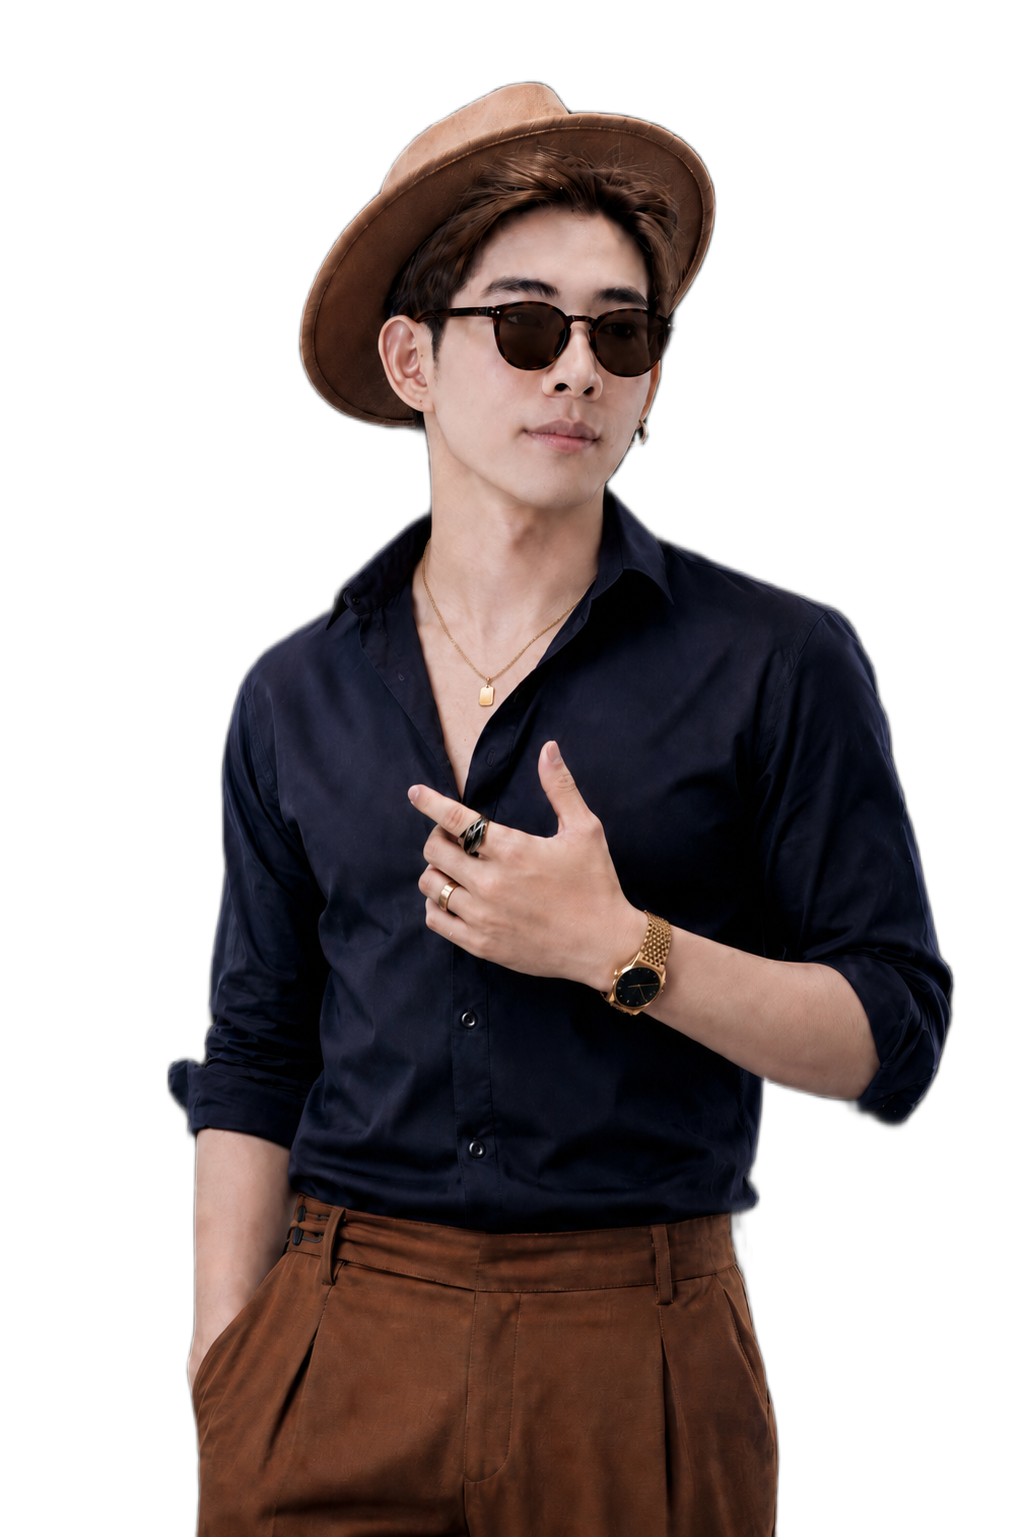
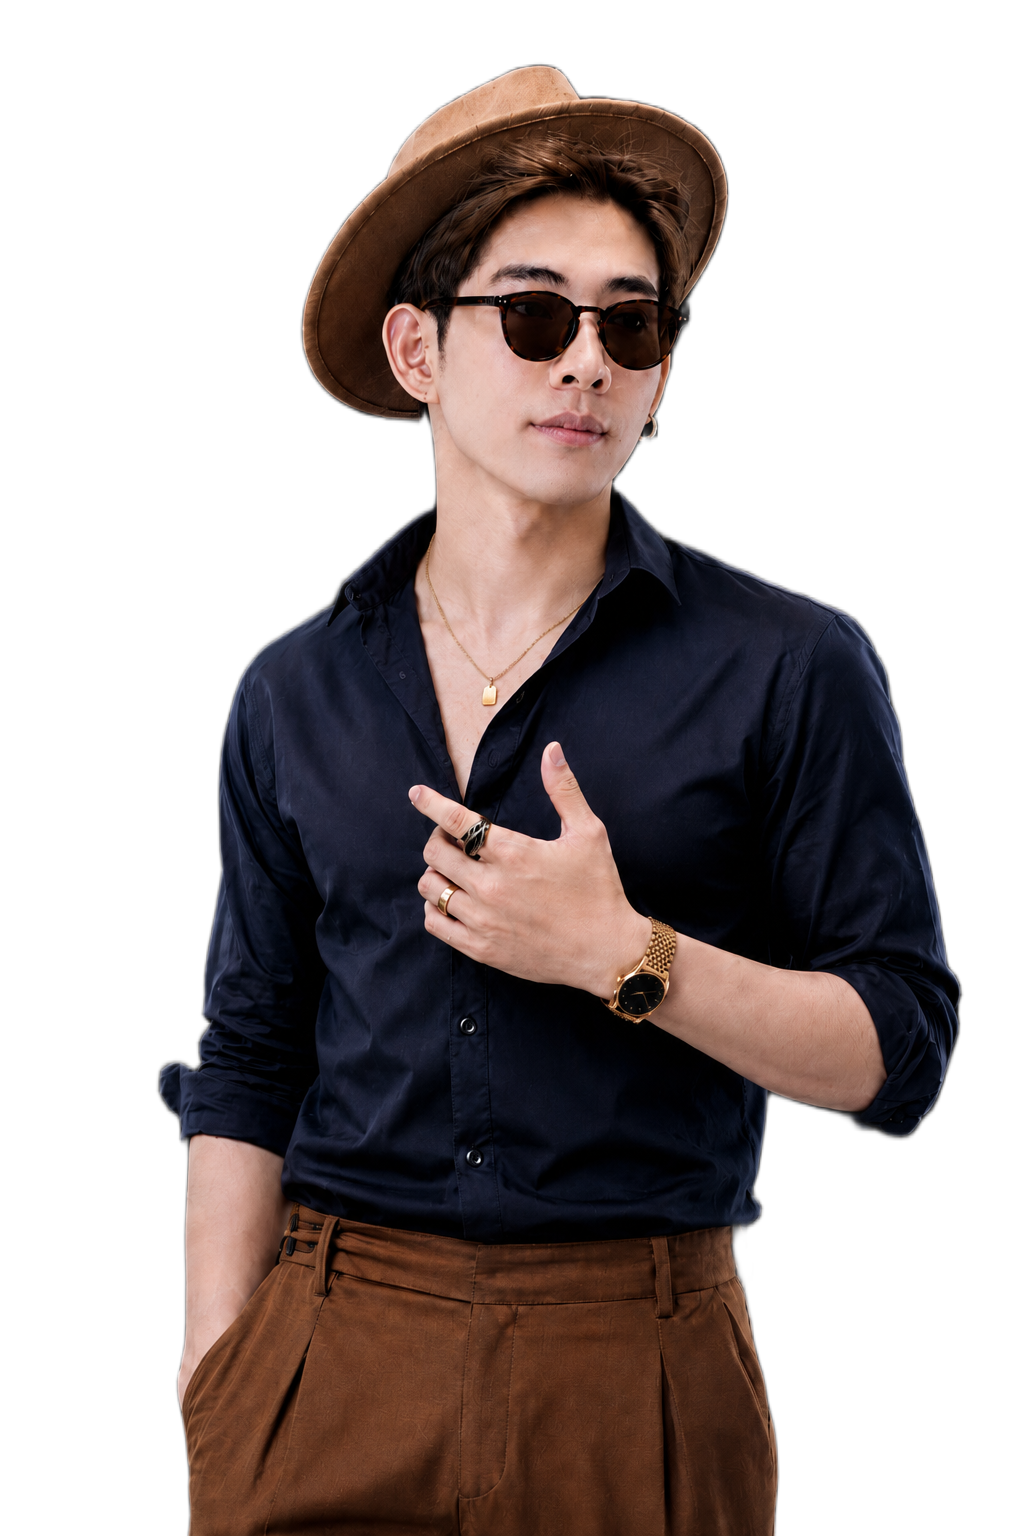
feat: add homepage FAQ with JSON-LD and budget-5000 blog post
Make Faq.astro reusable via optional title/class props (empty title
hides the heading and switches to aria-label). The homepage now feeds
a single faqItems source into both the accordion and FAQPage JSON-LD
to prevent schema drift.

Add new blog post "งบ 5,000 บาท ทำเสื้อแบรนด์ตัวเอง" with its cover
image, and refresh the hero image.

diff --git a/src/content/blog/budget-5000-baht-own-brand-tshirt.md b/src/content/blog/budget-5000-baht-own-brand-tshirt.md
@@ -1,0 +1,101 @@
+---
+title: "มีงบ 5,000 บาท ทำเสื้อแบรนด์ตัวเองได้กี่ตัว? กางต้นทุนจริง"
+description: "งบ 5,000 บาททำแบรนด์เสื้อยืดได้จริงไหม? กางต้นทุนทุกบรรทัด ตั้งแต่เสื้อเปล่า ค่าสกรีน ป้าย ยันแพ็กกิ้ง แล้วสรุปว่าได้กี่ตัวกันแน่"
+author: "ทีมงาน Thana Plus 153"
+publishedAt: 2026-06-05
+category: "ธุรกิจ"
+tags: ["ธุรกิจ", "สร้างแบรนด์", "มือใหม่", "รับผลิตเสื้อ"]
+cover: "@/assets/blogs/งบ5000ทำเสื้อแบรนด์.png"
+coverAlt: "เสื้อยืดเปล่าวางคู่ใบคำนวณต้นทุนและธนบัตร แสดงการคิดงบ 5,000 บาทสำหรับทำแบรนด์เสื้อ"
+draft: false
+---
+
+"อยากมีแบรนด์เสื้อเป็นของตัวเอง แต่มีทุนแค่ 5,000 บาท พอไหม?" คำตอบตรง ๆ คือ **พอ ถ้าเลือกถูกวิธี** — ด้วยงบ 5,000 บาทคุณจะได้เสื้อแบรนด์พร้อมขาย **ราว 16–29 ตัว (เฉลี่ยประมาณ 20 ตัว)** โดยใช้เสื้อเปล่าสำเร็จรูปมาสกรีน DTF แล้วติดป้ายแบรนด์ตัวเอง บทความนี้จะกางต้นทุนให้ดูทุกบรรทัด ตั้งแต่เสื้อเปล่า ค่าสกรีน ป้ายแบรนด์ ยันถุงแพ็ก แล้วสรุปด้วยตัวเลขจริงว่าทำไมถึงได้เท่านี้
+
+## "ทำแบรนด์" มีอยู่ 2 เส้นทาง และราคาต่างกันลิบ
+
+สิ่งที่ทำให้คนงบบานปลายคือเข้าใจผิดว่า "ทำแบรนด์" = "ตัดเย็บเสื้อขึ้นมาเองทั้งตัว" จริง ๆ แล้วมันแยกเป็น 2 ทาง:
+
+1. **เอาเสื้อเปล่าสำเร็จรูปมาสกรีน/ปัก** แล้วติดป้ายแบรนด์ตัวเอง — ทุนเริ่มต้นประมาณ **5,000 บาทก็เริ่มได้**
+2. **ออกแบบทรงเสื้อ ตัดเย็บใหม่ทั้งตัว** (cut & sew) — ทุนพุ่งไป **10,000 บาทขึ้นไป** เพราะมีค่าทำแพตเทิร์น ค่าตัวอย่าง และต้องสั่งเป็นล็อต
+
+ในเส้นทางที่ 2 ค่าออกแบบลายเริ่มที่ราว 700 บาท ค่าทำโลโก้ราว 1,500 บาท ค่าทำแพตเทิร์น 200–2,000 บาทต่อแบบต่อไซส์ และค่าตัดเสื้อตัวอย่าง 300–1,000 บาท จะเห็นว่าแค่ "เฟสออกแบบ" ก็กิน 1,000–4,000 บาทไปแล้ว ยังไม่ทันได้ผลิตจริง
+
+**สรุป: ถ้ามีงบ 5,000 บาท คุณกำลังเล่นเส้นทางที่ 1 — เสื้อเปล่า + สกรีน + ป้าย** บทความนี้จะคำนวณบนเส้นทางนี้ ถ้าอยากเห็นภาพรวมการวางระบบแบรนด์ทั้งหมดก่อน อ่าน [คู่มือเริ่มต้นสร้างแบรนด์เสื้อผ้า ฉบับสมบูรณ์](/blog/clothing-brand-startup-guide) ควบคู่ไปด้วยได้
+
+## องค์ประกอบต้นทุนต่อเสื้อ 1 ตัว (แบบหมดเปลือก)
+
+ต้นทุนเสื้อแบรนด์ 1 ตัวที่ "พร้อมขาย" ไม่ได้มีแค่ค่าเสื้อ มันประกอบด้วย 4 ก้อนหลัก:
+
+### 1) เสื้อเปล่า (ก้อนใหญ่สุด)
+
+ราคาเสื้อยืดเปล่า Cotton 100% ขึ้นกับเกรดผ้าและจำนวนที่สั่ง อิงจากเรตราคาตลาดทั่วไป:
+
+| เกรดผ้า (ไซส์ M) | สั่ง 1–24 ตัว | สั่ง 25–99 ตัว | สั่ง 100+ ตัว |
+|---|---|---|---|
+| Semi Cotton 32 | 95 ฿ | 85 ฿ | 80 ฿ |
+| Comb Cotton 32 | 100 ฿ | 100 ฿ | 95 ฿ |
+| Gildan Premium | 170 ฿ | 160 ฿ | 145 ฿ |
+
+ร้านขายส่งส่วนใหญ่ราคาใกล้เคียงกัน — เสื้อ Cotton 100% เริ่มต้นราว **85 บาท** และผ้าพรีเมียมทอละเอียดเริ่มราว 100 บาท จุดสำคัญที่ต้องรู้คือ **ยิ่งสั่งน้อย ราคาต่อตัวยิ่งแพง** และด้วยงบ 5,000 บาท คุณจะ "ไม่มีทาง" แตะเรตราคาขายส่ง 100+ ตัวได้เลย อยากเข้าใจว่าผ้าแต่ละเกรดต่างกันยังไงก่อนเลือก อ่าน [ผ้าคอตตอนมีกี่เกรด ทำไมเป็นเนื้อผ้าอันดับ 1 ของเสื้อยืด](/blog/cotton-fabric-grades-explained)
+
+### 2) ค่าสกรีน (ตัวแปรที่คนมองข้าม)
+
+นี่คือจุดชี้เป็นชี้ตายของงบน้อย เพราะเทคนิคสกรีนแต่ละแบบเหมาะกับจำนวนคนละขนาด:
+
+- **DTF / DTG (พิมพ์ทีละตัว ไม่มีขั้นต่ำ):** เหมาะกับงบน้อยที่สุด ค่าพิมพ์ DTF อยู่ที่ราว **90–180 บาทต่อตัว** (ยังไม่รวมเสื้อ) ส่วน DTG ราว 200–400 บาท
+- **ซิลค์สกรีน (Silk Screen):** ถูกมากเมื่อทำจำนวนเยอะ — เพียง **8–15 บาทต่อตัว** ที่จำนวน 30–500 ตัว แต่มี "ค่าเปิดบล็อกต่อสี" ที่ทำให้ **งานจำนวนน้อยแพงเกินคุ้ม** ถ้าทำแค่ไม่กี่สิบตัวจึงไม่เหมาะ
+
+ข้อสรุปจากร้านสกรีนตรงกันว่า ถ้าจำนวนน้อยหรือลายมีหลายสี **ให้เลี่ยงซิลค์สกรีน แล้วใช้ DTF** เพราะไม่ต้องจ่ายค่าบล็อก พิมพ์กี่สีก็ราคาเดียว ทำไม DTF ถึงเหมาะกับการเริ่มต้น อ่านเจาะลึกที่ [งานสกรีนดิจิทัล DTF คืออะไร ดีกว่าการสกรีนแบบเดิมอย่างไร](/blog/dtf-digital-printing-explained)
+
+### 3) ป้ายแบรนด์ + ป้ายคอเสื้อ
+
+ป้ายคือสิ่งที่เปลี่ยน "เสื้อสกรีน" ให้กลายเป็น "แบรนด์" แต่ป้ายทอ (Woven Label) และป้ายแท็กกระดาษ (Hangtag) มักมี **ขั้นต่ำการสั่ง 200–1,000 ใบขึ้นไป** ซึ่งหมายความว่าถ้าคุณทำเสื้อแค่ 20–30 ตัว แต่ต้องสั่งป้าย 200 ใบ ต้นทุนป้ายต่อตัวจะถูก "เกลี่ย" สูงผิดส่วน — ช่วงเริ่มต้นจึงนิยมใช้ **ป้ายพิมพ์ DTF ที่คอเสื้อ** หรือสติกเกอร์/แท็กกระดาษพิมพ์เองแทนไปก่อน
+
+### 4) แพ็กกิ้งและจิปาถะ
+
+ถุง OPP, สติกเกอร์ปิดผนึก, ค่าขนส่ง และของเสีย (เสื้อพิมพ์พลาด) — ก้อนนี้ดูเล็กแต่กินจริงราว 5–20 บาทต่อตัว
+
+## คำนวณจริง: 5,000 บาทได้กี่ตัว?
+
+ลองกางใน 3 สถานการณ์ บนสมมติฐานว่าใช้ **DTF บนเสื้อเปล่าสำเร็จรูป** (เหมาะกับงบน้อยและไม่มีขั้นต่ำ):
+
+| รายการ | แบบประหยัด | แบบมาตรฐาน | แบบพรีเมียม |
+|---|---|---|---|
+| เสื้อเปล่า | Semi Cotton 75 ฿ | Comb Cotton 100 ฿ | Gildan 160 ฿ |
+| สกรีน DTF 1 จุด | 90 ฿ | 120 ฿ | 130 ฿ |
+| ป้าย + แพ็ก | 5 ฿ | 10 ฿ | 15 ฿ |
+| **รวมต่อตัว** | **~170 ฿** | **~230 ฿** | **~305 ฿** |
+| **5,000 ฿ ได้กี่ตัว** | **~29 ตัว** | **~21 ตัว** | **~16 ตัว** |
+
+**คำตอบแบบตรงไปตรงมา: งบ 5,000 บาท ทำเสื้อแบรนด์เสร็จพร้อมขายได้ราว 16–29 ตัว** หรือพูดให้จำง่ายคือ **ประมาณ 20 ตัวบวกลบ** ถ้าเลือกผ้าและงานสกรีนระดับกลาง
+
+เทียบให้เห็นภาพ: ถ้าสั่งพิมพ์ DTF แค่ตัวเดียวจริง ๆ ตัวอย่างคือเสื้อ 190 บาท + สกรีนหน้าอก 50 บาท + สกรีนหลัง A3 200 บาท + ค่าส่ง 50 บาท = **490 บาทต่อตัว** ยิ่งทำน้อย ต้นทุนต่อตัวยิ่งบาน
+
+## ความจริงที่ต้องยอมรับ: 5,000 บาท "ผลิตได้" แต่ "ยังไม่ใช่แบรนด์เต็มตัว"
+
+ตัวเลข ~20 ตัวคือ **ต้นทุนการผลิตล้วน ๆ** ยังไม่รวมการตลาด ถ้าอยากทำแบรนด์แบบจริงจังที่มีการถ่ายรูป ทำคอนเทนต์ และยิงโฆษณา ลองดูตัวอย่างการผลิตล็อต 300 ตัวแบบตัดเย็บเอง:
+
+- ค่าผลิต (ผ้า + ตัดเย็บ + สกรีน) ราว **56,000 บาท**
+- ค่าถ่ายรูป + วิดีโอ + โฆษณา 2 เดือนแรก ราว **65,000 บาท**
+- **รวมเงินลงทุนตั้งต้นราว 121,000 บาท** และต้องขายให้ได้ราว **550 ตัวจึงจะคืนทุน** (ที่ราคาขาย 390 บาท กำไรขั้นต้น 220 บาท/ตัว)
+
+นั่นคือเหตุผลที่งบเปิดแบรนด์แบบ "มีคุณภาพและทำตลาดจริง" มักอยู่ที่ **80,000–150,000 บาท** ไม่ใช่ 5,000 บาท — แต่ไม่ได้แปลว่าต้องมีเงินก้อนนั้นถึงจะเริ่มได้
+
+## แล้วงบ 5,000 บาทควรทำยังไงให้คุ้มที่สุด?
+
+ไม่ได้แปลว่า 5,000 บาททำไม่ได้ — แต่ต้องวางเกมให้ถูก:
+
+1. **ใช้ระบบพรีออเดอร์ (Pre-order):** เปิดรับสั่งจองและเก็บเงินก่อน แล้วค่อยสั่งผลิตตามจำนวนจริง วิธีนี้ทำให้ 5,000 บาทเป็นแค่ "ทุนหมุน" ไม่ใช่ทุนจม และแทบไม่มีความเสี่ยงสต็อกค้าง
+2. **เริ่มจากลายเดียว สีเดียว:** อย่าเพิ่งทำหลายแบบหลายสี โฟกัสลายที่มั่นใจที่สุดก่อนเพื่อคุมต้นทุน
+3. **เลือก DTF ไม่ใช่ซิลค์สกรีน:** เพราะไม่มีค่าบล็อกและไม่มีขั้นต่ำ เหมาะกับการทดลองตลาดจำนวนน้อย
+4. **เลื่อนป้ายทอออกไปก่อน:** ใช้ป้ายพิมพ์ที่คอเสื้อหรือแท็กกระดาษพิมพ์เอง รอจนยอดขายนิ่งค่อยสั่งป้ายทอล็อตใหญ่ที่ราคาต่อใบถูกลง
+5. **กันงบส่วนหนึ่งไว้ทำคอนเทนต์:** อย่าทุ่มงบทั้งหมดไปกับการผลิตอย่างเดียว ควรเกลี่ยไปทั้งค่าสินค้าล็อตแรกและค่าโฆษณา/ถ่ายรูปด้วย
+
+อยากลงมือทำทีละสเต็ปตั้งแต่ตั้งชื่อแบรนด์ยันส่งมอบ ดูต่อที่ [เริ่มสร้างแบรนด์เสื้อผ้าของตัวเอง ฉบับจับมือทำทีละสเต็ป](/blog/start-clothing-brand-hands-on) และก่อนกดสั่งผลิตล็อตแรกจริง อย่าลืมเช็ก [5 เช็กลิสต์ต้องรู้ ก่อนสั่งผลิตเสื้อยืดแบรนด์ตัวเองล็อตแรก](/blog/tshirt-first-production-checklist)
+
+## สรุป
+
+งบ **5,000 บาท** ทำเสื้อแบรนด์ตัวเองได้จริง โดยใช้เสื้อเปล่าสำเร็จรูป + สกรีน DTF จะได้เสื้อพร้อมขาย **ราว 16–29 ตัว** (ประมาณ 20 ตัวสำหรับงานเกรดกลาง) แต่ต้องเข้าใจว่านี่คือ "การเริ่มต้นทดลองตลาด" ไม่ใช่การเปิดแบรนด์เต็มสูบ ถ้าอยากให้แบรนด์โตจริงและมีกำไร ต้องเผื่องบการตลาดและวางแผนจุดคุ้มทุนตั้งแต่วันแรก — เคล็ดลับคือ **เริ่มเล็ก ขายให้ออก แล้วค่อยขยาย** ด้วยกำไรที่ได้ ไม่ใช่ทุ่มทุนก้อนใหญ่ตั้งแต่ยังไม่รู้ว่าตลาดจะรับหรือเปล่า
+
+อยากเริ่มทำเสื้อแบรนด์ตัวเองล็อตแรกแบบคุมงบให้อยู่ ทีมงาน Thana Plus 153 ช่วยดูได้ตั้งแต่เลือกเสื้อเปล่า เลือกงานสกรีน ไปจนถึงส่งมอบงาน ทักมาปรึกษาได้เลย